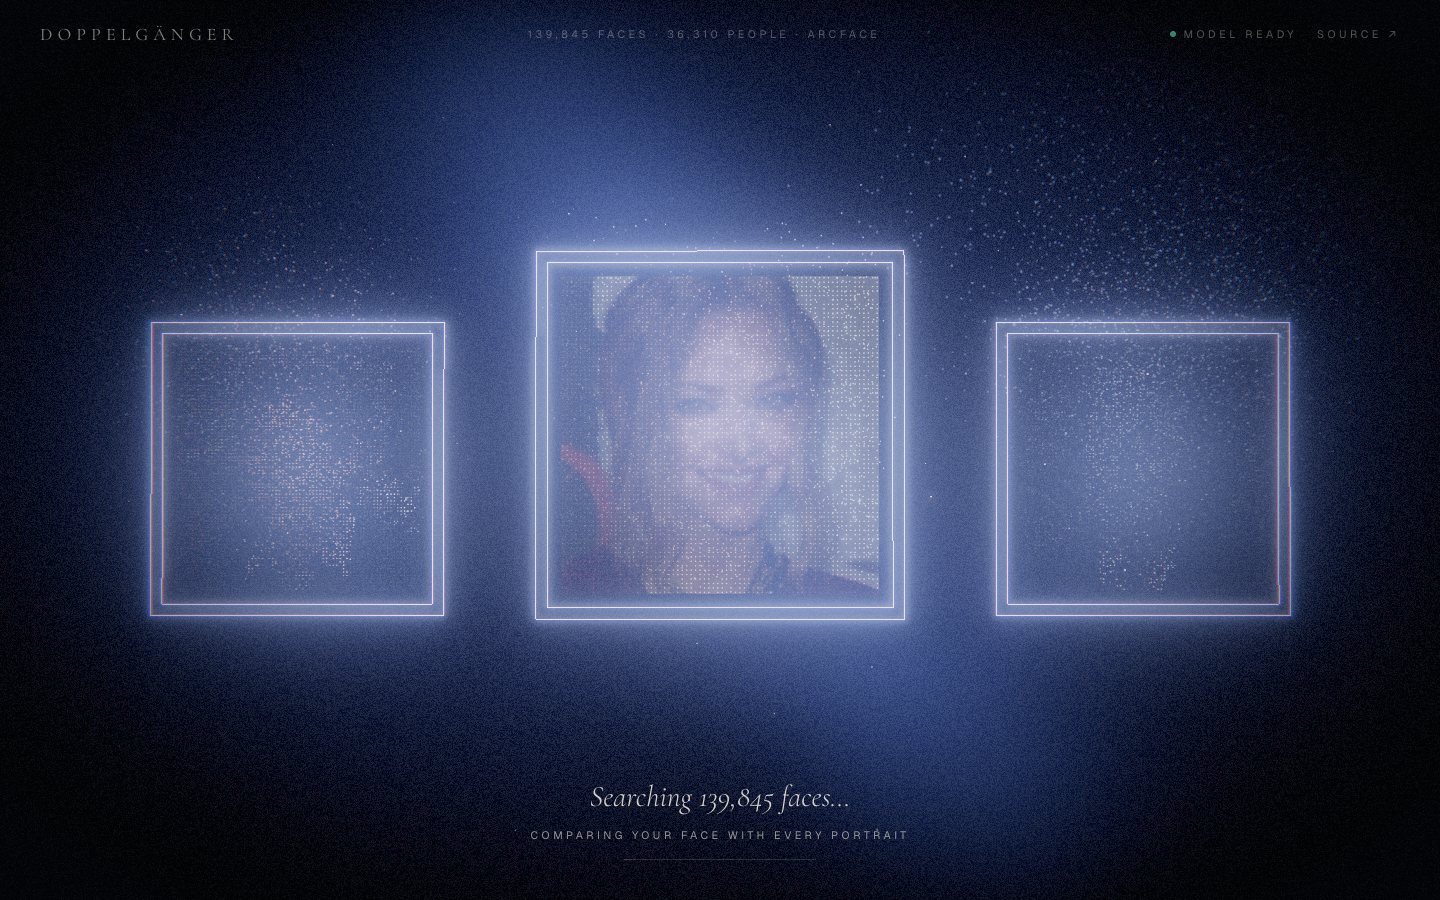
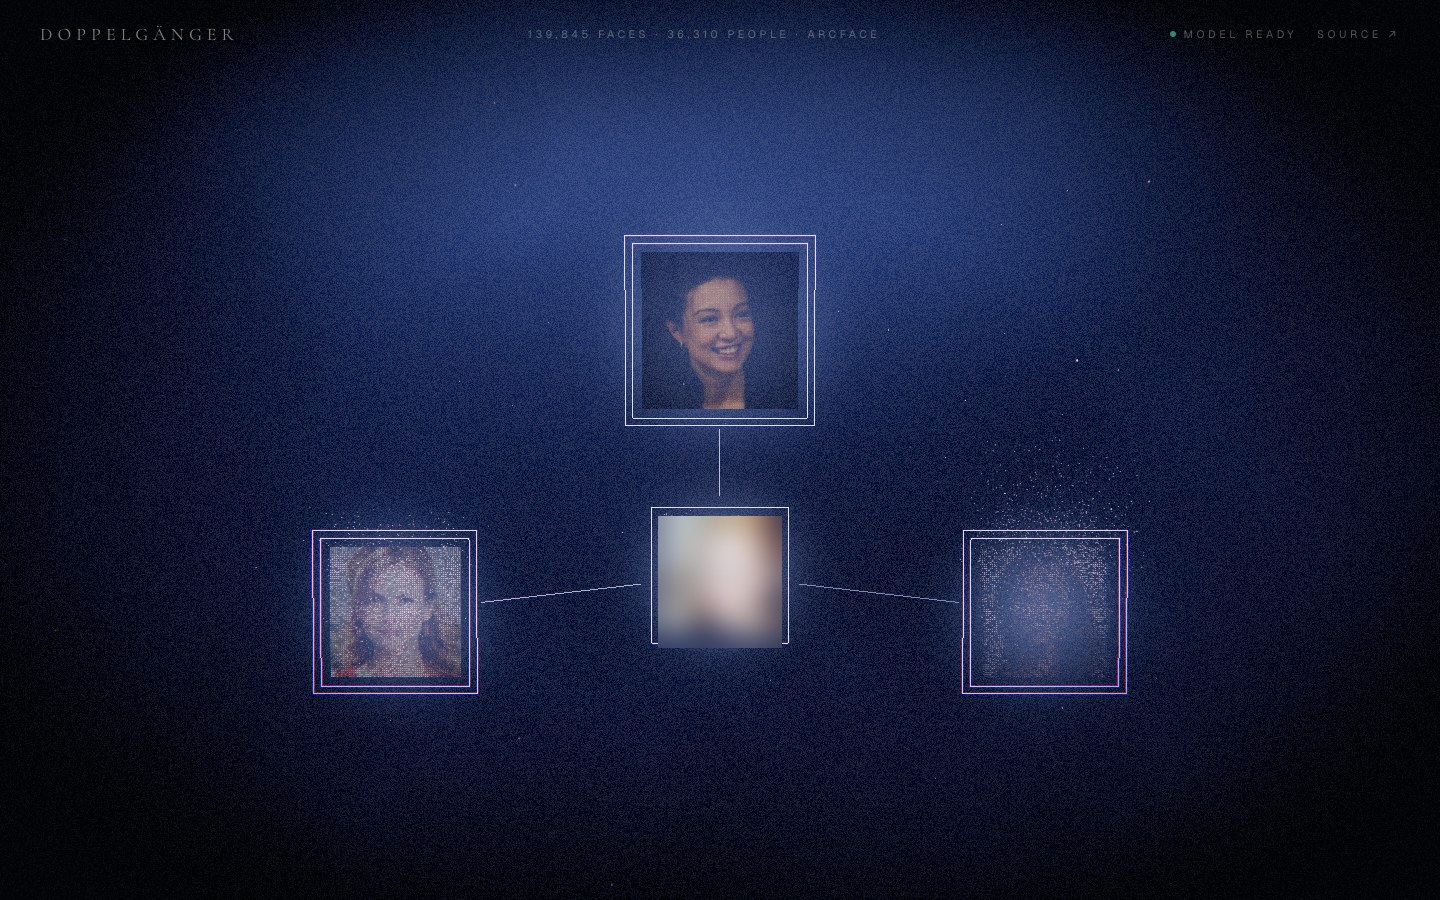
Docs: interface design notes, README and screenshots for the current design

diff --git a/docs/INTERFACE.md b/docs/INTERFACE.md
@@ -1,0 +1,97 @@
+# The interface: design and build notes
+
+The app's front end was redesigned from a plain upload form into a short, continuous 3D film. This document explains what it does, how it's built, and how it got there: five rounds of design, each driven by feedback on a live preview.
+
+Code: `frontend/app/experience/engine.ts` (the 3D world), `frontend/app/experience/Stage.tsx` (the React wrapper) and `frontend/app/page.tsx` (the HTML UI on top).
+
+## What the visitor sees
+
+| | | | |
+|---|---|---|---|
+| ![Landing](screenshots/app-home.jpg) | ![The gallery](screenshots/app-gallery.jpg) | ![Assembling](screenshots/app-assembling.jpg) | ![Results](screenshots/app-results.jpg) |
+| **1. Landing** | **2. The search flight** | **3. The turn and assembly** | **4. Results** |
+
+1. **Landing: a film poster.** The title *Doppel / gänger* is on the left, a head made of 16,000 points of light is in the middle, and the upload controls are on the right. The head faces the viewer and turns to follow the cursor. Dust drifts off it like smoke.
+2. **The search flight.** On *Find*, the head bursts past the camera, and the camera glides at a steady speed through an endless gallery of light: portraits drawn as dots inside thin frames of light. The camera weaves gently left and right, up and down, and banks into each curve. The flight lasts as long as the search does.
+3. **The turn.** Once the matches arrive, the camera flies one more stretch, then banks round to a composition that was out of sight, 90° off the flight path. Each frame assembles out of a particle cloud, each point coloured from its photo, and then the real photo resolves.
+4. **Results.** Your photo is in the centre. The closest match is above you, with the second and third lower left and right, joined to you by lines of light. Names, ranks and match strength are HTML plaques placed under each frame.
+
+On a phone the layout stacks (title, head, controls). With *prefers-reduced-motion* the flight becomes still cuts. Browsers without WebGL get a plain HTML results grid.
+
+## How it's built
+
+**Plain three.js (r186), no 3D framework.** Every element has its own small GLSL shader:
+
+| Element | How |
+|---|---|
+| Head | 16,000 points sampled from a 3D head scan (`scripts/build_head_points.py`), stored as a 141 KB binary of int16 positions and int8 normals. Lit per point from its normal: a warm key light plus a cool rim. |
+| Dust | Points born on the face where the face *was* at their birth. A 32-step history of the head's pose (one every 0.2 s) is passed to the shader, so dust trails behind a turning head instead of moving rigidly with it. |
+| Gallery | 10 portraits recycled around the camera: each sits at `offset - distance travelled`, wrapped over a 30-unit loop, so the gallery never runs out. They fade in from the haze by distance. |
+| Stars | Wrapped around the camera in the shader (`mod(position - camera, 120)`), so the starfield is endless but keeps its parallax. |
+| Sky | A sphere that follows the camera, with fbm noise for nebular haze and soft diagonal light shafts. |
+| Assembly | 64×64 points per frame, 4 frames. Each point flies from a cloud to its pixel and reads its colour from the photo texture in the vertex shader. Photos are centre-cropped to squares on a canvas first. |
+| Post-processing | Bloom (strong for starlight, turned down once photos resolve), plus a film pass: slight chromatic aberration, vignette, grain, and a fade to black for cuts. |
+
+**The camera is a small state machine:** `landing → cruise → turning → arrived → leaving`.
+
+- **Cruise:** the speed eases up to 4.2 units/s and stays there; the position is a pure function of the distance travelled.
+- **Turning:** a cubic Bézier whose first control point is set so the camera leaves the cruise at exactly its cruising speed, easing to a stop facing the composition. The look target blends from straight ahead to the composition.
+- **Arrived:** the stop distance is computed from the field of view and aspect ratio, so the whole composition fits any screen.
+- **Leaving:** a fade through black, a camera reset, and the head re-forms.
+
+**Performance.**
+- three.js is code-split with a dynamic import, so the page itself is 45 KB gzipped and usable before the 3D loads.
+- Phones draw fewer points: the head binary is shuffled, so any prefix is an even subsample.
+- If frames run slow for two seconds, the renderer drops its pixel ratio (once).
+- It runs at 60 fps on a laptop GPU.
+
+**The HTML layer.** The page tells the engine what to do (`startSearch`, `showResults`, `back`). The engine reports back where the frames landed on screen (projected from the final camera pose), and the page places its plaques there.
+
+**Testing.**
+- Playwright drives headless Chrome on the Metal GPU to record the full journey as video and screenshots, at desktop, laptop and phone sizes, with reduced motion, and with a failing search.
+- A small fake backend serves fixed matches with a configurable delay, so long and short searches can both be tested.
+
+## How it evolved
+
+Each round was previewed on a Vercel branch deployment and a recorded video before going live.
+
+**Round 1: particle head and a museum walk-through.**
+- The landing became a particle head that follows the cursor.
+- On *Find*, the camera walked through a museum and stopped at a wall with three framed paintings.
+- *Feedback:* the warm museum didn't fit the night-space look; the head was turned to one side; the dust moved rigidly with the head.
+
+**Round 2: the gallery of light.**
+- The museum was replaced by an open gallery of light floating in space.
+- The head was rotated to face the viewer.
+- The dust moved to world space with the pose history described above, so it trails off like smoke.
+
+**Round 3: an endless flight and a hidden composition.**
+- *Feedback:* the flight slowed down while waiting for results; the final frames were visible in the distance before arriving; the user's own photo was missing.
+- *Changes:*
+  - The flight now runs at a constant speed for as long as the search takes, with one more stretch after the results arrive.
+  - The final frames are only placed when the turn begins, 90° off the flight line, so they can't be seen early.
+  - The composition gained the user's photo in the centre, with the three matches in a triangle round it.
+
+**Round 4: polish.**
+- *Feedback:* the glow on the final photos made faces hard to see against white backgrounds; the camera felt static during the search.
+- *Changes:*
+  - Bloom, halo and leftover-particle brightness over resolved photos were reduced.
+  - The cruise gained a gentle weave and bank, which levels out before the turn so there's no jump.
+
+**Round 5: a simpler landing.**
+- The landing was reduced to a poster layout: big title left, head centre, upload controls right.
+- The explanatory text was removed (the results page explains match strength), keeping one footer line for privacy and the head-scan credit.
+- A follow-up fix gave the title's descenders room inside the slide-up reveal mask, which had been clipping the tails of the "g"s and "p"s.
+
+## Related backend change: enforcing the API key
+
+During the same period, the backend's API key, which had been defined but not checked, was made mandatory. It was rolled out safely:
+
+1. The backend gained a **report-only mode** (`API_KEY_MODE=report`): requests without a valid key are counted in a Prometheus metric (`doppelganger_api_key_checks_total{result}`) but still served.
+2. Once the counter showed only valid keys from the frontend, the mode was switched to **enforce**, which returns 401 for a missing or wrong key.
+
+Keys are compared with `hmac.compare_digest`. The key lives in a Modal secret and a Vercel environment variable, and is never in the repo.
+
+## Credits
+
+The head is sampled from "Infinite, 3D Head Scan" by Lee Perry-Smith (Infinite Realities), [CC BY 3.0](https://creativecommons.org/licenses/by/3.0/), via the three.js examples. Only the derived point cloud ships. In the screenshots, the visitor's photo is blurred.

diff --git a/README.md b/README.md
@@ -4,20 +4,20 @@ Upload a photo or take a live selfie, and find your three closest celebrity look
 
 **Live demo: [celebrity-doppelganger.vercel.app](https://celebrity-doppelganger.vercel.app)** (free hosting, so the first request after a quiet spell takes ~20 s while the model wakes up)
 
-<p align="center"><img src="docs/screenshots/app-results.jpg" width="820" alt="Results: the three closest celebrity matches resolved inside frames of light, with name and match strength"></p>
+<p align="center"><img src="docs/screenshots/app-results.jpg" width="820" alt="Results: your photo in the centre, the three closest celebrity matches around it in frames of light, with name and match strength"></p>
 
 The app detects the face, embeds it with ArcFace, and runs a cosine search over the index. The score is shown as a **match strength**: a percentile calibrated against how well thousands of people who *aren't* celebrities match.
 
 **The interface is a short film:**
-- **Landing:** a head made of 16,000 points of light turns to follow your cursor.
-- **On Find:** it disperses past the camera, and you glide through a gallery of light (portraits drawn in dots, floating in the dark) while the search runs.
-- **The ending:** a cloud of particles assembles into your three matches, each point coloured from its photo, and the real photos resolve inside frames of light.
+- **Landing:** a poster layout. The title is on the left, the upload controls are on the right, and in the middle a head made of 16,000 points of light faces you and turns to follow your cursor.
+- **On Find:** the head disperses past the camera, and you glide at a steady speed through an endless gallery of light (portraits drawn in dots, floating in the dark) for as long as the search takes.
+- **The ending:** once the matches are in, the camera banks round to a composition that was out of sight. Your photo is in the centre, with your three matches in a triangle around it. Each assembles from a cloud of particles coloured from its photo, then the real photo resolves inside a frame of light.
 
 | | | |
 |---|---|---|
-| ![Landing: a head made of points of light](docs/screenshots/app-home.jpg) | ![The gallery of light](docs/screenshots/app-gallery.jpg) | ![The matches assembling from particles](docs/screenshots/app-assembling.jpg) |
+| ![Landing: the title, a head made of points of light, and the upload controls](docs/screenshots/app-home.jpg) | ![The gallery of light during the search](docs/screenshots/app-gallery.jpg) | ![The matches assembling from particles around your photo](docs/screenshots/app-assembling.jpg) |
 
-It's built in plain three.js (`frontend/app/experience/`), with a custom shader per element and a bloom, grain and vignette pass. It runs at 60 fps, loads after the page is usable, and has fallbacks for phones, reduced motion and browsers without WebGL.
+It's built in plain three.js (`frontend/app/experience/`), with a custom shader per element and a bloom, grain and vignette pass. It runs at 60 fps, loads after the page is usable, and has fallbacks for phones, reduced motion and browsers without WebGL. How it works and how the design evolved: [docs/INTERFACE.md](docs/INTERFACE.md). (Your photo is blurred in these screenshots.)
 
 What's in the repo:
 - **ML pipeline:** embedding 277k IMDB-WIKI photos on a rented GPU, duplicate and label-noise cleanup, leave-one-out retrieval evaluation, and score calibration against a real-face null distribution.
@@ -163,7 +163,7 @@ python scripts/package_index.py            # -> data/deploy/index/ (what the bac
 
 ```
 backend/            FastAPI matcher, calibration.json, Dockerfile, tests
-frontend/           Next.js 16 + React 19 + Tailwind v4 + Framer Motion, camera capture
+frontend/           Next.js 16 + React 19 + Tailwind v4 + Framer Motion, three.js experience, camera capture
 deploy/             free tier: Modal app + setup guide
 infra/terraform/    GKE: VPC, cluster, Artifact Registry, GCS, Workload Identity, GitHub federation
 infra/azure/        the same on AKS
@@ -173,7 +173,7 @@ infra/loadtest/     k6 script + in-cluster Job
 infra/local/        kind cluster
 scripts/            embedding, dedup, cleaning, evaluation, calibration, packaging
 notebooks/          Vast.ai GPU embedding notebook
-docs/               PRD, technical design, build plan, screenshots
+docs/               PRD, technical design, build plan, interface notes, screenshots
 reports/            evaluation + cleaning results (JSON)
 ```
 
